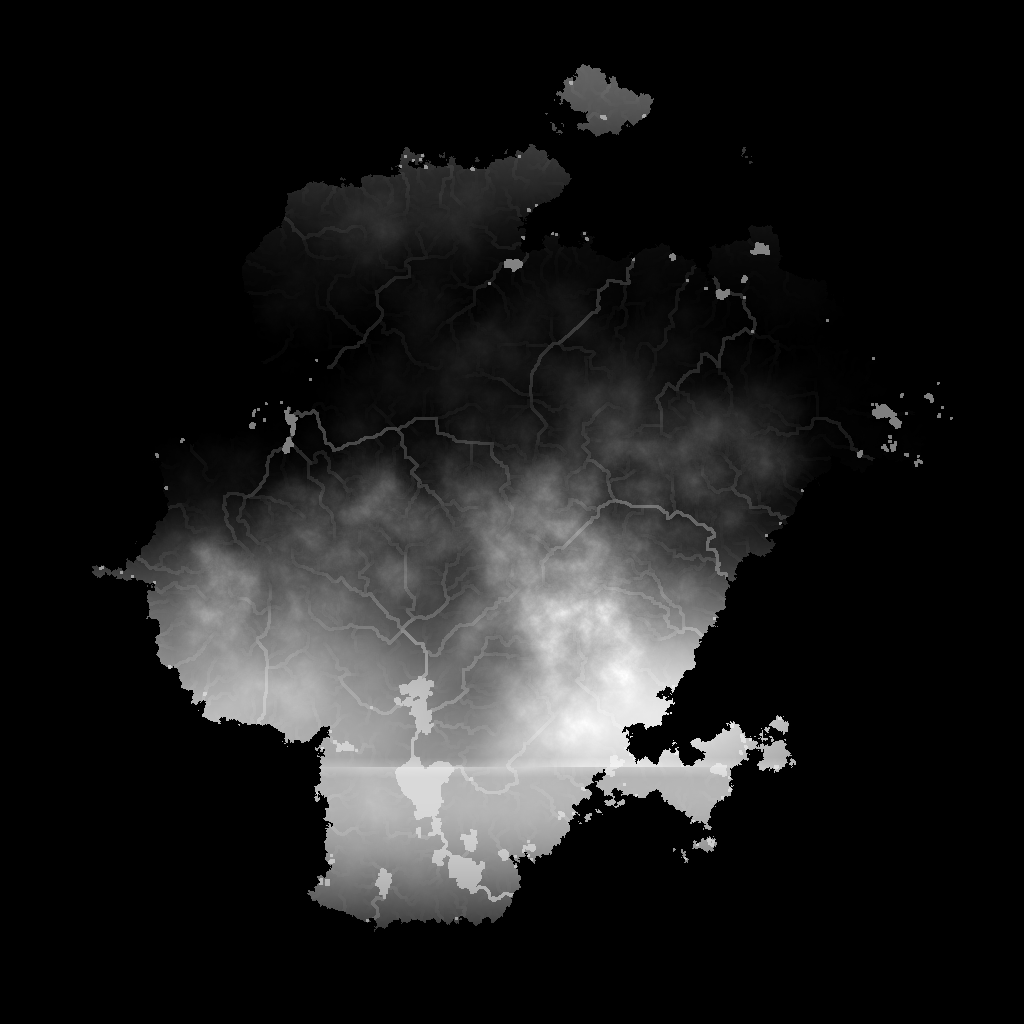
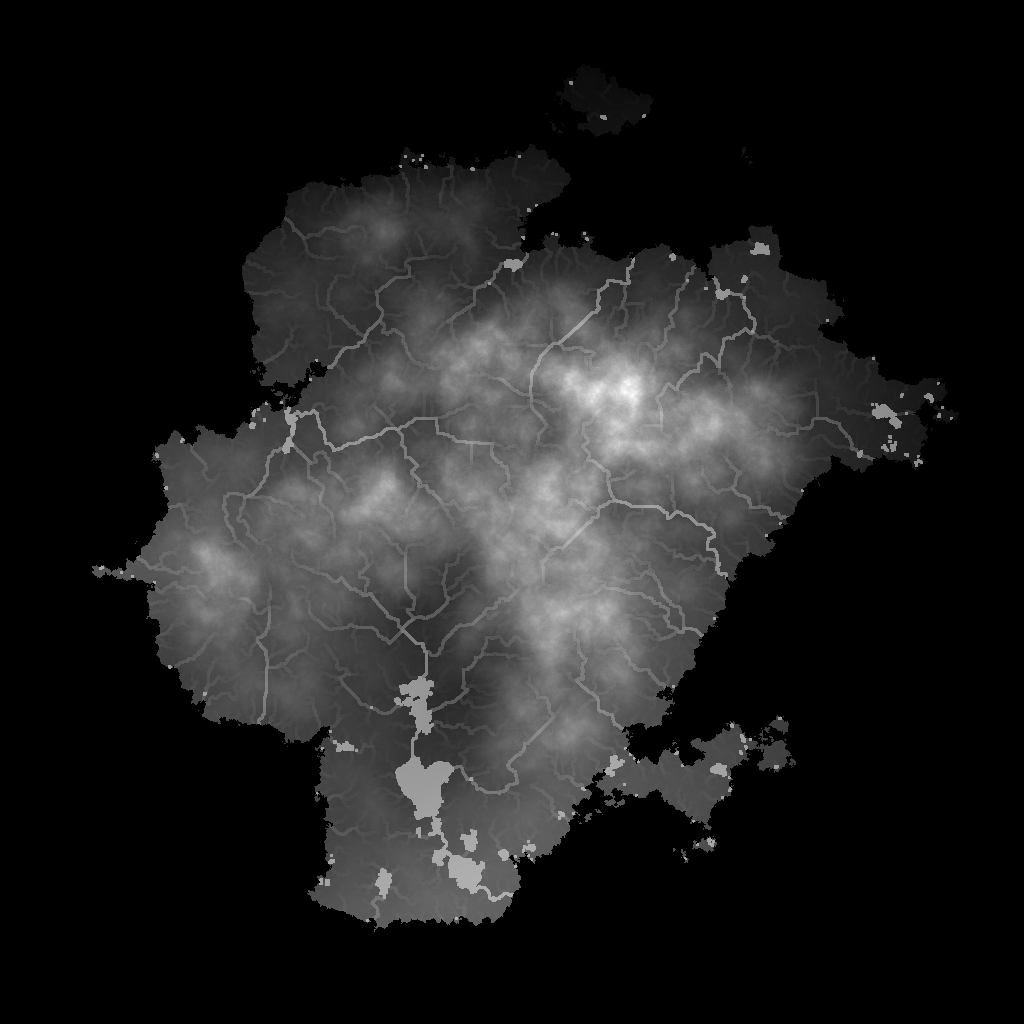
Bunch of works

diff --git a/src/main.rs b/src/main.rs
@@ -54,6 +54,11 @@ enum LoopEvent {
     ChangeResource(Wrapper<Box<dyn Any>>, fn(&mut Resources, Box<dyn Any>)),
 }
 
+#[derive(Clone)]
+struct Defines {
+    size: usize,
+}
+
 static SET: fn(&mut f32, &f32) = |x, y| *x = *y;
 static MAX: fn(&mut f32, &f32) = |x, y| *x = max_by(*x, *y, |x, y| x.partial_cmp(y).unwrap());
 static MIN: fn(&mut f32, &f32) = |x, y| *x = min_by(*x, *y, |x, y| x.partial_cmp(y).unwrap());
@@ -107,7 +112,7 @@ struct ValueHandle {
 
 struct ValueManager<'s> {
     values: Vec<Value<'s>>,
-    paras: Vec<Vec<(u8, u8)>>
+    paras: Vec<Vec<(u8, u16)>>
 }
 
 impl<'s> ValueManager<'s> {
@@ -138,7 +143,7 @@ impl<'s> ValueManager<'s> {
                 for i in 0..funcs.len() {
                     for (ii, value) in self.values.iter().enumerate() {
                         if value.name == parents[i] {
-                            paras.push((get_func(&funcs[i]), ii as u8));
+                            paras.push((get_func(&funcs[i]), ii as u16));
 
                             break;
                         }
@@ -158,6 +163,10 @@ impl<'s> ValueManager<'s> {
         });
 
         return self.values.last().unwrap().handle.clone();
+    }
+
+    fn get_handle(&self, name: &'s str) -> Arc<ValueHandle> {
+        self.values.iter().find(|v| v.name == name).unwrap().handle.clone()
     }
 
     fn update(&mut self) {
@@ -182,7 +191,7 @@ impl<'s> ValueManager<'s> {
             for (ii, value) in self.values.iter().enumerate() {
                 if let Some(paras) = &value.paras {
                     for (_, parent) in self.paras[*paras as usize].iter() {
-                        if i as u8 == *parent && !update.contains(&ii) {
+                        if i as u16 == *parent && !update.contains(&ii) {
                             update.push(ii);
                             stack.push(ii);
 
@@ -249,6 +258,7 @@ struct Veget { item: f32 }
 struct Neighb { item: Vec<Entity> }
 struct RiverBase { item: f32 }
 struct VegetBase { item: f32 }
+struct Index { item: usize }
 struct Pop { value: Arc<ValueHandle> }
 struct Skill { item: HashMap<String, Arc<ValueHandle>> }
 struct Building { item: HashMap<String, Arc<ValueHandle>> }
@@ -361,6 +371,7 @@ struct Core {
     sys: Arc<SysLoop>,
     pools: Vec<ThreadPool>,
     barrier: Arc<Barrier>,
+    defines: Defines,
 }
 
 impl Core {
@@ -370,6 +381,7 @@ impl Core {
         let mtx = Arc::new(Mutex::new(false));
         let run = Arc::new(AtomicBool::new(false));
         let pools = vec![ThreadPoolBuilder::new().num_threads(1).build().unwrap(), ThreadPoolBuilder::new().num_threads(num_cpus::get() - 1).build().unwrap()];
+        let defines = Defines { size: 1024 };
 
         let (producer_app, consumer_app) = channel::<LoopEvent>();
         let (producer_sys, consumer_sys) = channel::<LoopEvent>();
@@ -381,6 +393,9 @@ impl Core {
         resources_sys.insert(Wrapper { item: producer_app });
 
         resources_app.insert(run.clone());
+
+        resources_app.insert(defines.clone());
+        resources_sys.insert(defines.clone());
 
         let app = AppLoop {
             world: universe.create_world(),
@@ -415,11 +430,12 @@ impl Core {
             sys,
             pools,
             barrier,
+            defines,
         }
     }
 
     fn load_pixels(&mut self) {
-        let mut map = map::ProvBuilder::new(1024, 0.1, 0.6, 2., 0., 1., 0.1, 0.9, -60., 20.);
+        let mut map = map::ProvBuilder::new(self.defines.size, 0.1, 0.6, 2., 0., 1., 0.1, 0.9, -20., -10.);
 
         map.gen_heightmap();
         map.gen_insolation();
@@ -429,6 +445,7 @@ impl Core {
         map.gen_rivermap();
         map.gen_watermap();
         map.gen_vegetmap();
+        map.gen_settlements();
 
         map.export(&map.heightmap, "heightmap.png");
         map.export_minmax(&map.insolation, "insolation.png", 0., 1.);
@@ -438,6 +455,7 @@ impl Core {
         map.export_minmax(&map.rivermap, "rivermap.png", 0., 1.);
         map.export_minmax(&map.watermap, "watermap.png", 0., 1.);
         map.export_minmax(&map.vegetmap, "vegetmap.png", 0., 1.);
+        map.export_settlements("settlements.png");
 
         let world = unsafe { &mut Arc::get_mut_unchecked(&mut self.sys).world };
 
@@ -453,6 +471,7 @@ impl Core {
                     Water { item: (map.rivermap[i] + map.cloudmap[i]) as f32 / 2. },
                     RiverBase { item: map.rivermap[i] as f32 },
                     VegetBase { item: map.vegetmap[i] as f32 },
+                    Index { item: i },
                 )
             })
         ).to_vec();
@@ -467,6 +486,9 @@ impl Core {
                     map::Water::Sea => world.add_tag(pixel, Sea).unwrap(),
                     map::Water::Lake => world.add_tag(pixel, Lake).unwrap(),
                 };
+            }
+            if map.settlements[i] {
+                world.add_tag(pixel, Settlement).unwrap();
             }
         }
     }

diff --git a/src/map.rs b/src/map.rs
@@ -173,6 +173,7 @@ pub struct ProvBuilder {
     pub tempmap: Vec<f64>,
     pub watermap: Vec<f64>,
     pub vegetmap: Vec<f64>,
+    pub settlements: Vec<bool>,
     water_level: f64,
     water_taper: f64,
     lat_start: f64,
@@ -230,6 +231,7 @@ impl ProvBuilder {
             tempmap: Vec::new(),
             watermap: Vec::new(),
             vegetmap: Vec::new(),
+            settlements: Vec::new(),
             water_level,
             water_taper,
             lat_start,
@@ -501,11 +503,41 @@ impl ProvBuilder {
 
         self.vegetmap = vec![0.; size * size];
 
-        for i in 0..size*size {
+        for i in 0..size * size {
             if self.heightmap[i] > 0. {
                 let water = clamp(1.5 * self.watermap[i] - self.tempmap[i] / 2., 0., 1.);
 
                 self.vegetmap[i] = (water * (-(self.tempmap[i] - 0.75).powi(2) + 1.)).sqrt();
+            }
+        }
+    }
+
+    pub fn gen_settlements(&mut self) {
+        let size = self.size;
+
+        self.settlements = vec![false; size * size];
+
+        let mut rng = rand::thread_rng();
+        let mut ys = Vec::new();
+        ys.push(0);
+
+        while *ys.last().unwrap() < size {
+            ys.push(ys.last().unwrap() + rng.gen_range(5, 20))
+        }
+
+        ys.pop();
+
+        'outer: for y in ys.iter() {
+            for x in 0..size {
+                let i = y * size + x;
+
+                if self.waters.get(&i).is_none() {
+                    if rng.gen::<bool>() && rng.gen::<bool>() {
+                        self.settlements[i] = true;
+
+                        continue 'outer;
+                    }
+                }
             }
         }
     }
@@ -544,6 +576,25 @@ impl ProvBuilder {
                 i += 1;
 
                 img.put_pixel(x as u32, y as u32, Rgb([val, val, val]));
+            }
+        }
+
+        img.save(path.into()).unwrap();
+    }
+
+    pub fn export_settlements<T: Into<PathBuf>>(&self, path: T) {
+        let mut i = 0;
+        let mut img = RgbImage::new(self.size as u32, self.size as u32);
+
+        for y in 0..self.size {
+            for x in 0..self.size {
+                if self.settlements[i] {
+                    img.put_pixel(x as u32, y as u32, Rgb([255, 255, 255]));
+                } else {
+                    img.put_pixel(x as u32, y as u32, Rgb([0, 0, 0]));
+                }
+
+                i += 1;
             }
         }
 
